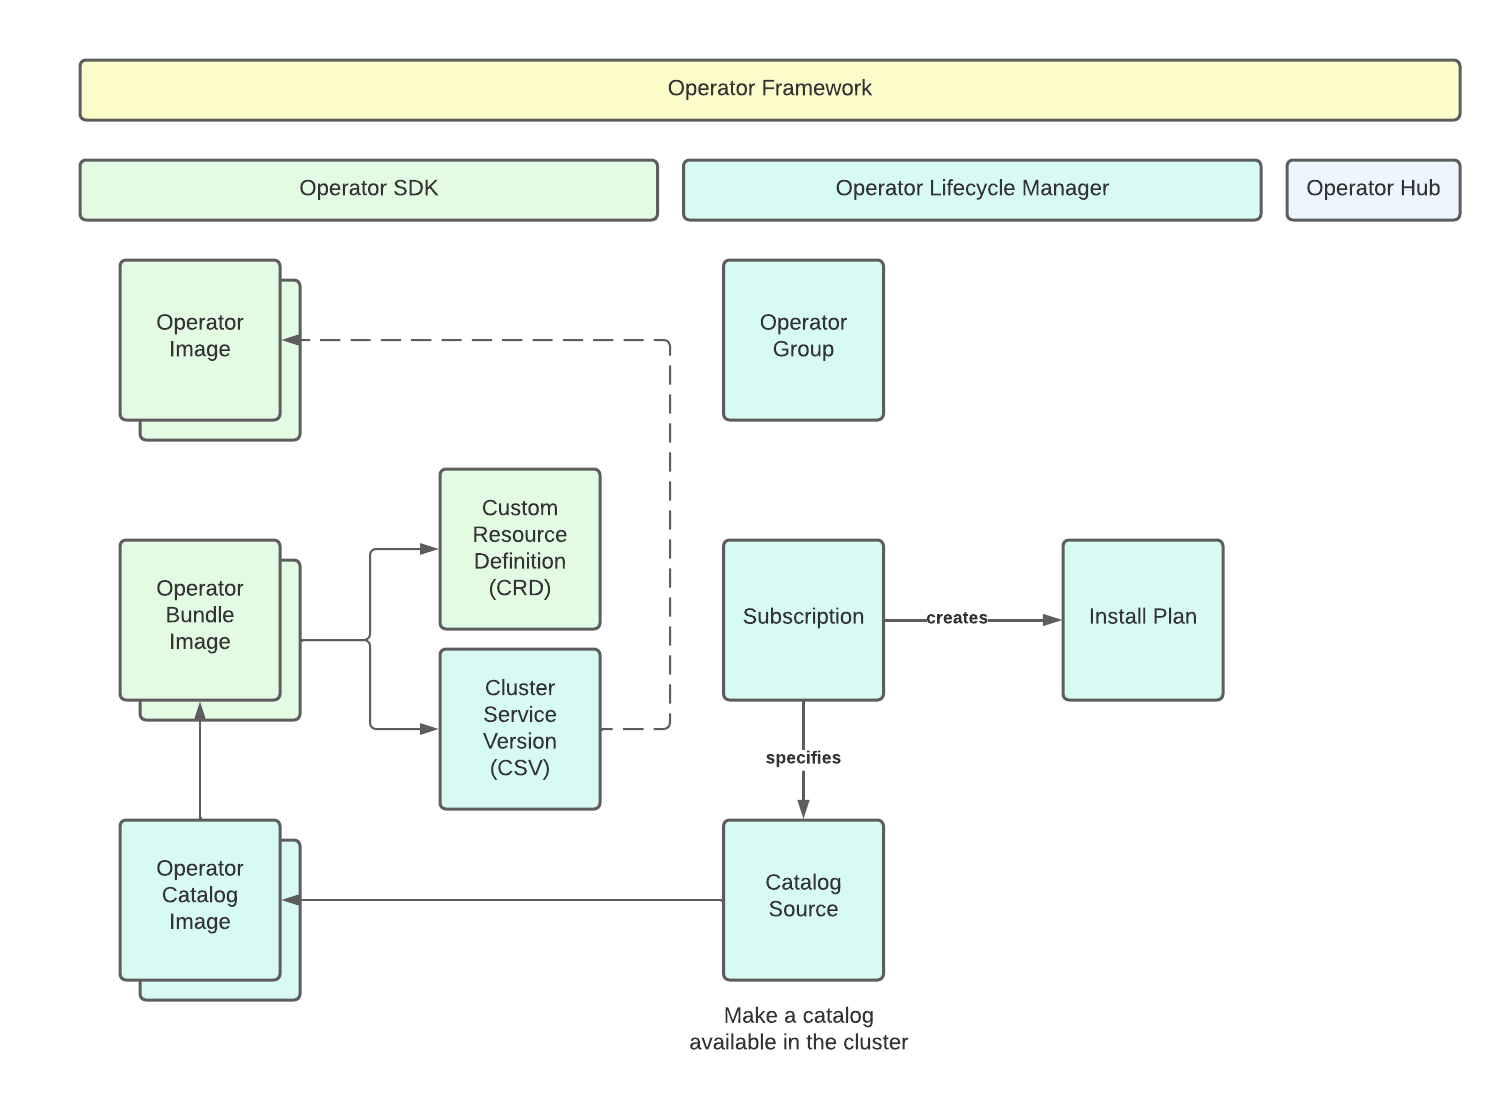
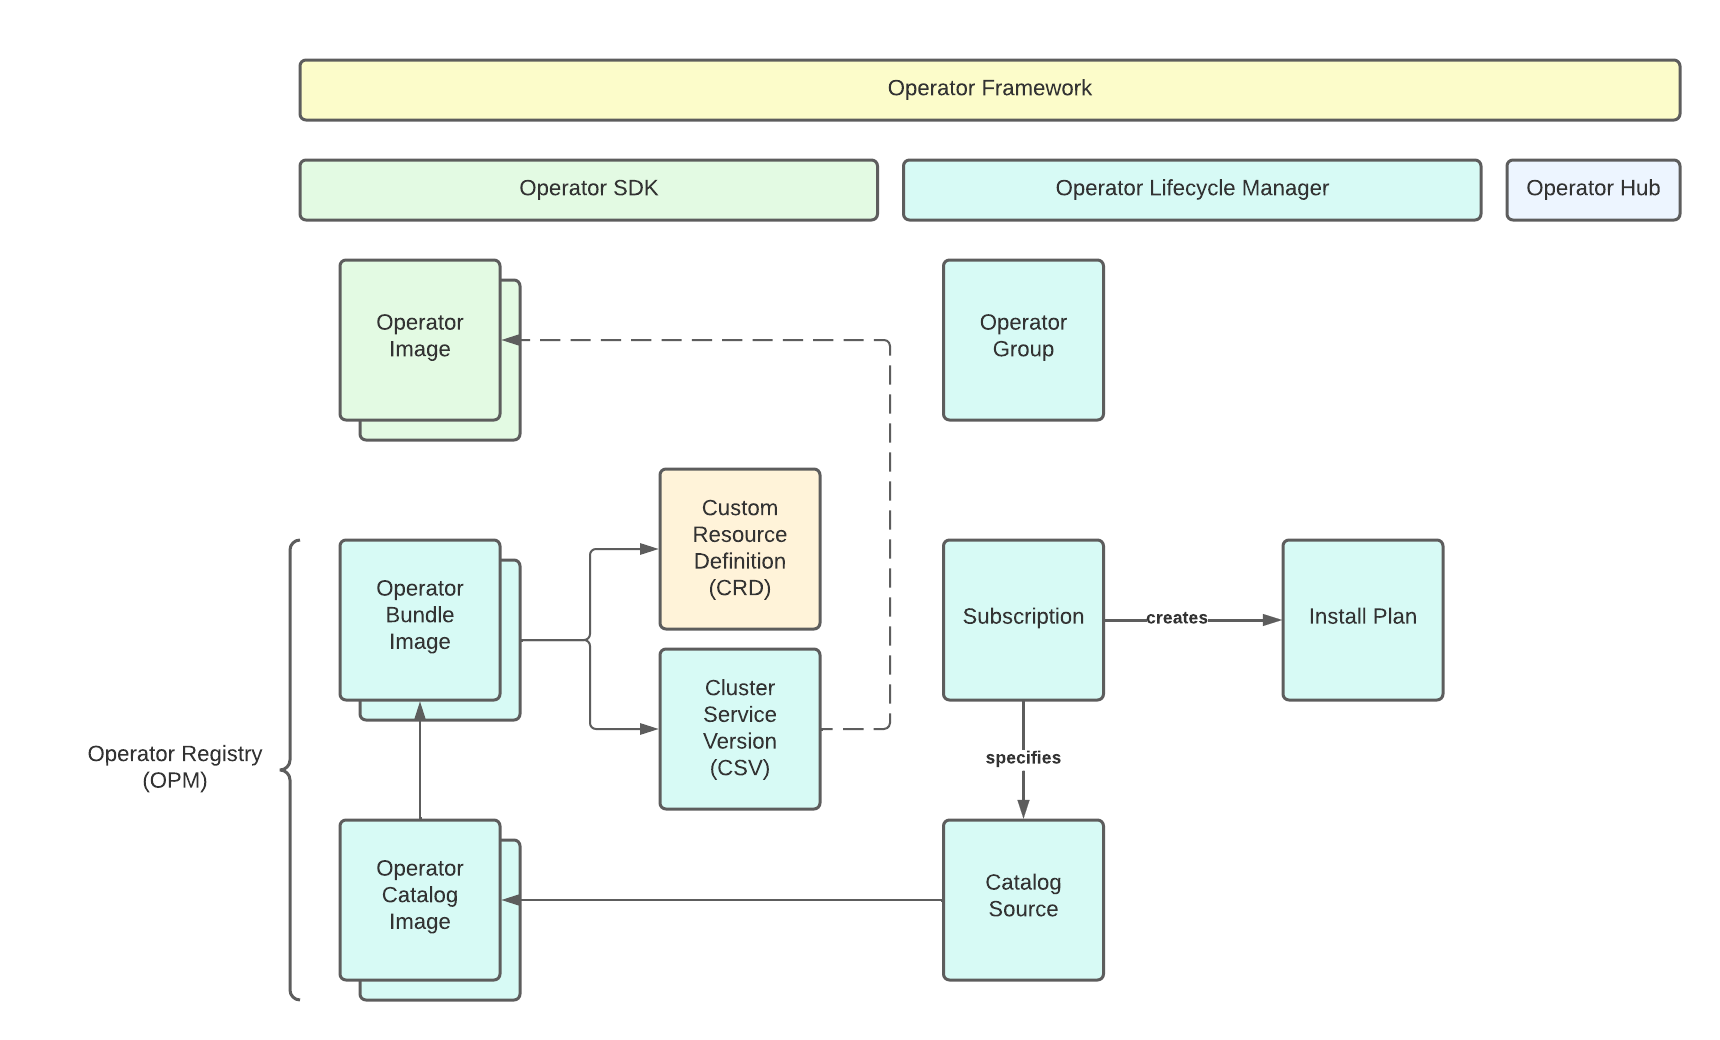
docs: update operator framework components doc

diff --git a/docs/operator-framework-components.md b/docs/operator-framework-components.md
@@ -2,4 +2,96 @@
 
 ![](images/operator-framework-components.png)
 
-TODO: 
+## Custom Resource Definition (CRD)
+
+Definition of an Object that extends the Kubernetes API and is reconciled by the Operator (the controller).
+
+## Cluster Service Version (CSV)
+
+Represents a single version of an Operator and defines the template that OLM uses to deploy the Operator.
+
+Defines
+
+* Deployment Template
+* Permissions
+  * cluster scoped
+  * namespace scoped
+* Capability level
+  * Basic Install
+  * Seamless Upgrades
+  * Full Lifecycle
+  * Deep Insights
+  * Auto Pilot
+* Supported Install Modes
+  * Own Namespace
+  * Single Namespace
+  * Multi Namespace
+  * All Namespaces
+* Additional Metadata
+
+## Operator Bundle Image
+
+Packaging format for the associated manifests and metadata for a single version of an Operator.
+
+* API definitions (CRDs)
+* Cluster Service Version (CSV)
+* Any additional manifests that are not part of the CSV
+  * e.g. operator configuration configmap, metrics service
+
+> :warning: When an Operator is installed, the bundle manifest are stored in a ConfigMap in the OLM namespace.
+Kubernetes has a restriction of ~1MB for ConfigMaps. From OLM >= v0.19.0 the manifests are compressed, giving you
+around ~4MB capacity for the uncompressed manifests. Only likely to affect large Operators, or Operators with many
+CRD versions. 
+
+## Operator Catalog Image
+
+Also referred to as an Operator Index Image is a sqllite database containing the bundle images for every Operator in the
+Catalog. It's served to OLM over a gRPC API. Is currently being migrating to a text based model.
+
+## Catalog Source
+
+Makes a catalog available so that the contained Operators can be installed. Polls for updates on a configurable 
+interval.
+
+When a CatalogSource is created, the ConfigMap for the Bundle is created in the OLM Namespace.
+
+## Operator Group
+
+Provides multi-tenant configuration capabilities allowing a Cluster Admin to control which Namespaces an Operator
+will watch for CustomResources. Operators can only be installed in a Namespace if it's InstallMode is compatible
+with the Namespaces configured in the OperatorGroup. There can only be one OperatorGroup in a specific Namespace.
+
+It also allows the ServiceAccount that will be used to deploy the Operator to be specified, allowing Cluster Admins
+to control the granted permissions and therefore what is installed i.e. installation will fail if the configured
+ServiceAccount does not have permission to create a resource from the Bundle.
+
+When the OperatorGroup is created the view, edit and admin ClusterRoles for the OperatorGroup are created along
+with the view, edit, admin and crdview ClusterRoles for the CRDs and the Metrics Reader ClusterRole, see 
+[OLM RBAC](olm-rbac.md).
+
+## Subscription
+
+When the Subscription is created the permissions in the CSV are transformed into Roles in the deployed and all 
+watched namespaces and the CSV is copied into all these namespaces. The Namespace details (deployed and watched)
+are removed from the CSV in the watched Namespaces.
+
+Deleting a Subscription does not remove the Operator.
+
+A Subscription also allows the configuration of specific fields on the deployment, including but not limited to
+resource requests and limits and node selectors providing a way to customise specific deployments of the Operator.
+
+## Install Plan
+
+InstallPlans are created when the Subcription is created and when new versions of the Operator are available from
+the Catalog (Catalogs usually reference the `latest` tag)
+
+## Operator Development
+
+By default, the Operator-SDK scaffolds a cluster-scoped operator. This is fine if AllNamespaces is the only 
+InstallMade that is supported. 
+
+In order to support all InstallModes, the Operator should be 
+[Namespace Scoped](https://sdk.operatorframework.io/docs/building-operators/golang/operator-scope/) and should
+dynamically set the Namespace(s) to watch, see [Restricting Watched Namespaces](restricting-watched-namespaces.md).
+This will ensure RBAC permission are generated as a Role and not a ClusterRole and OLM will manage creating the 
+Roles and RoleBindings based on the OperatorGroup's watched Namespaces.
